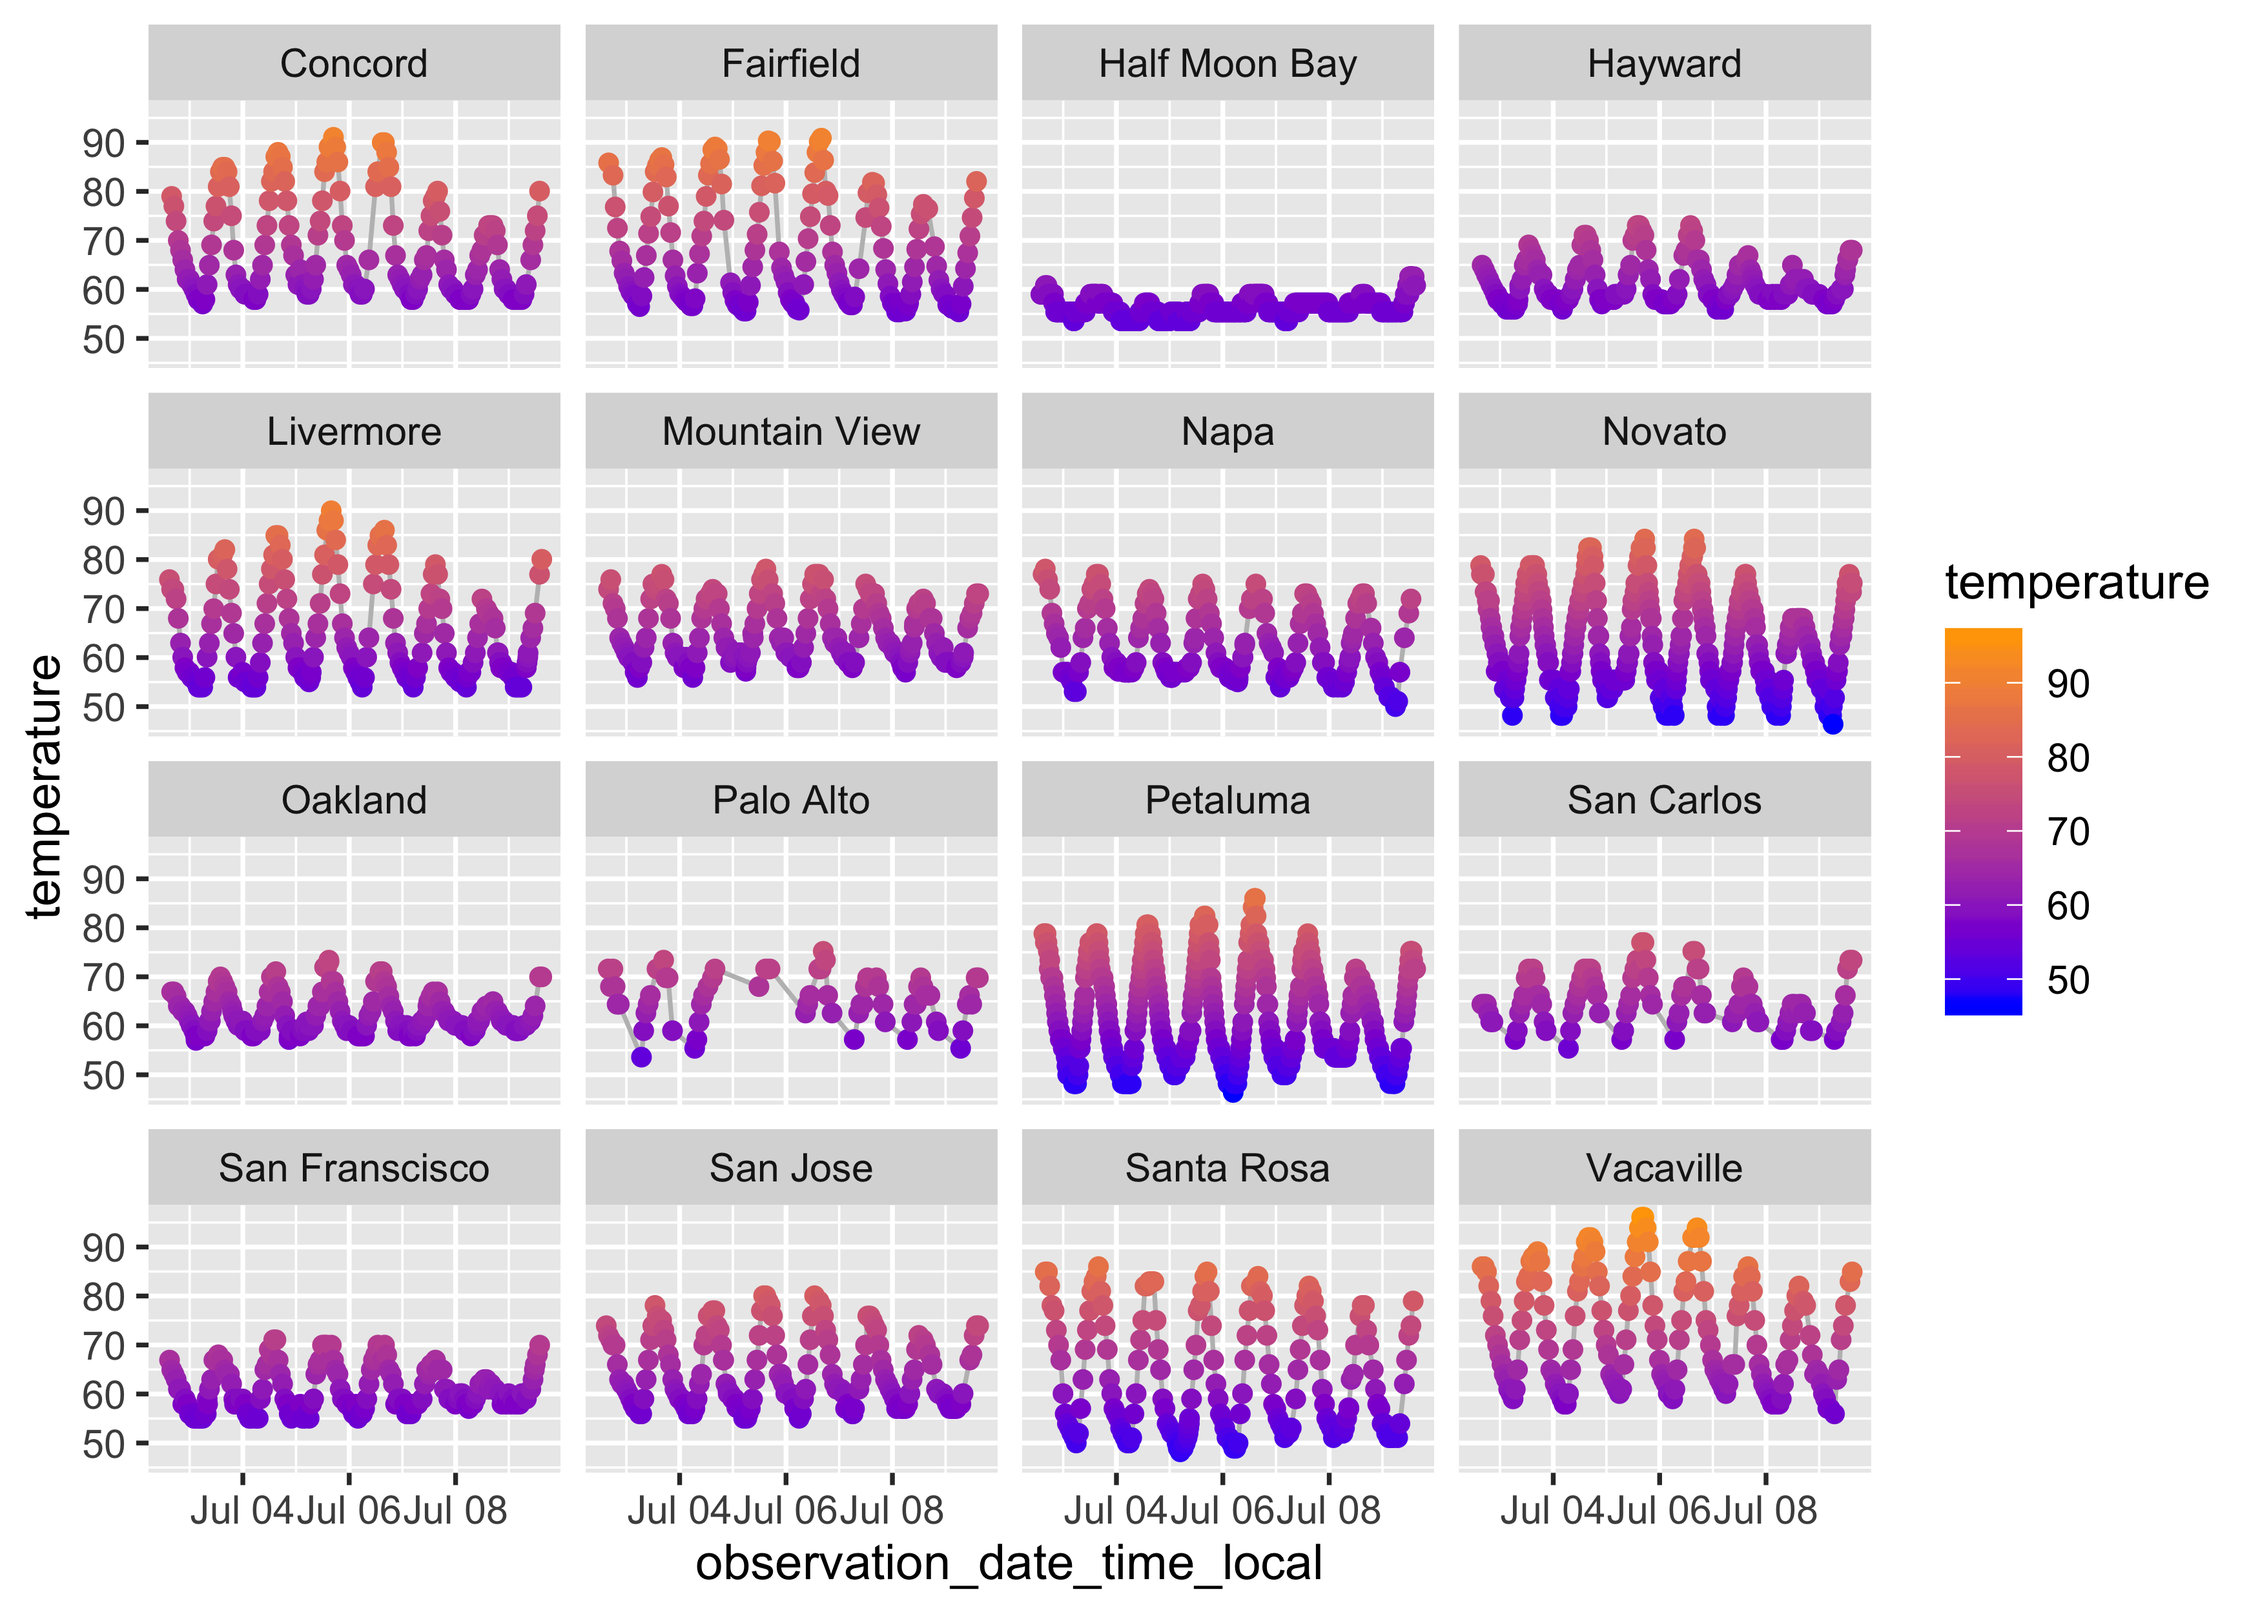
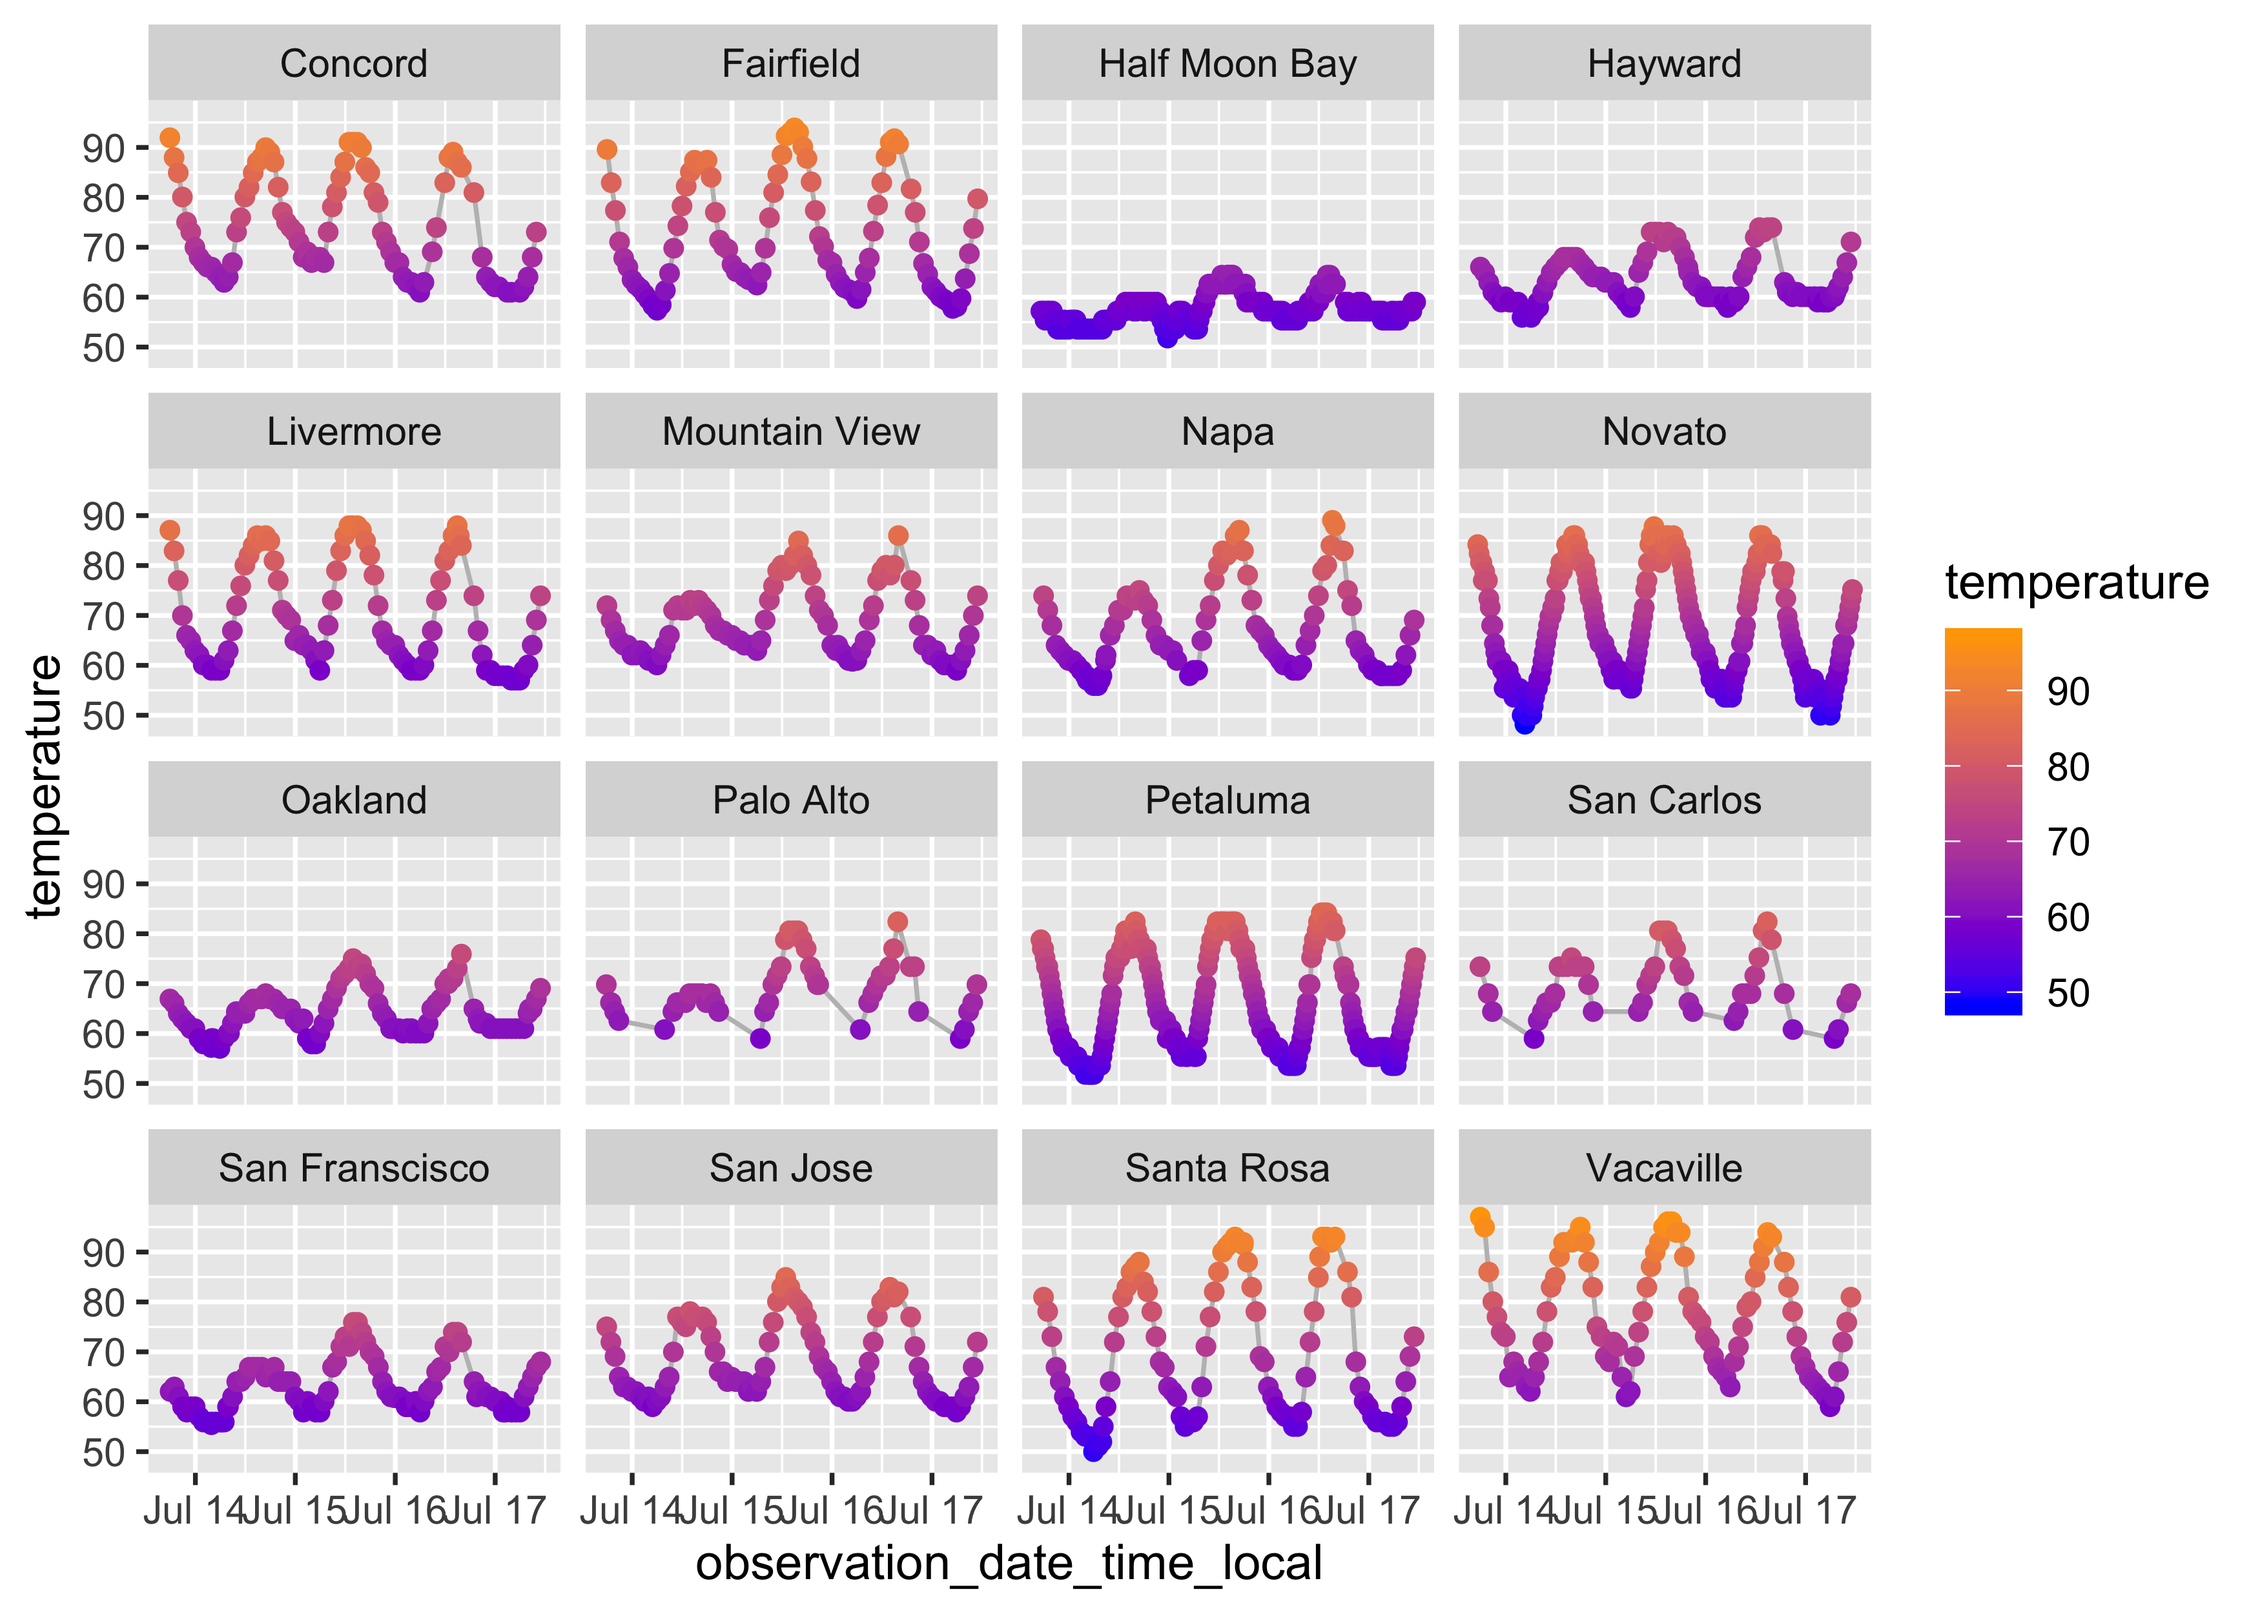
some changes before RLadies presentation

diff --git a/r/reticulate_walkthrough/using_reticulate_for_web_scraping.md b/r/reticulate_walkthrough/using_reticulate_for_web_scraping.md
@@ -1,7 +1,20 @@
-Using Python from within R
-================
+-   [Context](#context)
+-   [Using reticulate](#using-reticulate)
+    -   [Virtual Environments and Python /
+        reticulate](#virtual-environments-and-python-reticulate)
+    -   [Using pure Python within
+        RStudio](#using-pure-python-within-rstudio)
+    -   [Installing Python packages](#installing-python-packages)
+    -   [Importing Python packages](#importing-python-packages)
+-   [Applied Example: scraping weather.gov
+    data](#applied-example-scraping-weather.gov-data)
+    -   [Context](#context-1)
+    -   [The Weather.gov API](#the-weather.gov-api)
+    -   [Goals of the Exercise](#goals-of-the-exercise)
+    -   [Visualizing results](#visualizing-results)
 
-## Context
+Context
+-------
 
 R & Python are two of the most popular languages used in analytics. Each
 have their unique advantages, and it’s now easier than ever before to
@@ -18,20 +31,21 @@ From RStudio:
 > > The **reticulate** package provides a comprehensive set of tools for
 > > interoperability between Python and R. The package includes
 > > facilities for:
-> > 
-> >   - Calling Python from R in a variety of ways including R Markdown,
+> >
+> > -   Calling Python from R in a variety of ways including R Markdown,
 > >     sourcing Python scripts, importing Python modules, and using
 > >     Python interactively within an R session.
-> > 
-> >   - Translation between R and Python objects (for example, between R
+> >
+> > -   Translation between R and Python objects (for example, between R
 > >     and Pandas data frames, or between R matrices and NumPy arrays).
-> > 
-> >   - Flexible binding to different versions of Python including
+> >
+> > -   Flexible binding to different versions of Python including
 > >     virtual environments and Conda environments.
+> >
+------------------------------------------------------------------------
 
------
-
-## Using reticulate
+Using reticulate
+----------------
 
 Let’s start by loading the R libraries we’ll use for our analysis.
 
@@ -47,9 +61,9 @@ library(lubridate) ## loading this for help with date operations
 Before we get into an applied example, here’s some general housekeeping
 and helpful info for using `reticulate`:
 
-  - Reticulate allows for the use & creation of virtual environments for
+-   Reticulate allows for the use & creation of virtual environments for
     Python.  
-  - Virtual environments allow you to define an isolated version of
+-   Virtual environments allow you to define an isolated version of
     Python that operates completely separate from the main version of
     Python installed on your computer.
 
@@ -72,9 +86,31 @@ When using `reticulate`, however, the call is slightly different. Note
 that I’m using Python 3 in this notebook.
 
 ``` r
-virtualenv_create("r_py3_venv", python = "/usr/local/bin/python3")
+virtualenv_create("r_py3_venv", 
+                  python = "/usr/local/bin/python3")
 #> virtualenv: r_py3_venv
 use_virtualenv("r_py3_venv")
+```
+
+### Using pure Python within RStudio
+
+reticulate also offers some options for using *pure* Python (i.e. not
+inclusive of R syntax or operators) as part of the package.
+
+Here’s an example where we can let `knitr` run a Python chunk using
+\`\`\``{python}` as the first link of the chunk.
+
+``` python
+print('hello')
+#> hello
+```
+
+You can also pass a raw string of Python code to the `py_eval` function
+in Reticulate.
+
+``` r
+py_eval("print('hello')")
+#> NULL
 ```
 
 ### Installing Python packages
@@ -85,7 +121,7 @@ packages.
 For reference, here’s how you’d generally install Python packages
 *outside* of reticulate using the command line and the `pip` package
 manager (`conda` is also a popular Python package and environment
-manager).
+manager, and reticulate has functionality here as well).
 
 ``` bash
 pip install pandas
@@ -97,7 +133,10 @@ virtual environment you want to use and include an R list of the Python
 packages you’d like to install to the envioronment.
 
 ``` r
-py_install(c("pandas","requests") envname = "r_py3_venv")
+py_install(c("pandas",
+             "requests",
+             "pandas.io"), 
+           envname = "r_py3_venv")
 ```
 
 Note: if you don’t specify a virtual environment, reticulate will
@@ -116,8 +155,7 @@ import requests
 import pandas.io.json
 ```
 
-Now here’s the reticulate equivalent. Note that you cannot import
-specific components of a Python library here - it’s all or nothing.
+Now here’s the reticulate equivalent.
 
 ``` r
 pandas = import('pandas')
@@ -133,19 +171,20 @@ Here’s an example with `pandas.pivot()`:
 
 ``` r
 pandas$pivot
-#> <function pivot at 0x1240e8378>
-requests$get
-#> <function get at 0x12467b0d0>
+#> <function pivot at 0x11afaf8c8>
 ```
 
-## Applied Example: scraping weather.gov data
+Applied Example: scraping weather.gov data
+------------------------------------------
 
 ### Context
 
-I’m from Akron, Ohio where the weather is usually cloudy and it’s cold
-for at least 6 months out of the year. Northern California is great;
-I’ve really been fascinated by the climates of each San Francisco
-neighborhood and nearby cities.
+I’m from Akron, Ohio where [the weather is usually cloudy and it’s cold
+for at least 6 months out of the
+year](https://www.usclimatedata.com/climate/akron/ohio/united-states/usoh0008).
+Living in Northern California is great (for many reasons, but weather is
+certainly a big one!); I’ve really been fascinated by the climates of
+each San Francisco neighborhood and nearby cities.
 
 The National Weather Service (NWS) has a [web
 API](https://www.weather.gov/documentation/services-web-api) that can be
@@ -154,7 +193,7 @@ across the US. To explore the Bay Area’s various climates, I decided
 it’d be fun to pull temperature observations for a list of nearby
 weather stations.
 
-To speed up the tutorial here for a moment - I’m starting with a
+To speed up the tutorial here for a moment - I’m going to start with a
 pre-built list of area weather stations.
 
 ``` r
@@ -314,8 +353,7 @@ temperature_data = data.frame(NULL)
 
 Here’s where I invoke Python’s `requests` and `pandas` libraries to help
 with fetching & wrangling data from the API. Have a look at the code for
-an explanation of each
-step.
+an explanation of each step.
 
 ``` r
 ## for every row `i` in my dataframe of stations, I want to do the following
@@ -361,7 +399,7 @@ local time.
 ``` r
 temperature_data = 
   temperature_data %>% 
-  filter(date>=as.Date('2019-06-01')) %>% 
+  filter(as.Date(date)>=as.Date(today()-days(3))) %>% 
   mutate(observation_date_time_local=as_datetime(date,tz='America/Los_Angeles'))
 ```
 
@@ -369,8 +407,8 @@ temperature_data =
 
 Now that we have recent data from all weather stations, converted
 temperatures from Celsius to Farenheit, and converted timezones…let’s
-visualize and see what we learn\! Here’s a plot created with ggplot2
-that shows the fluctuation of temperatures at each of these stations’
+visualize and see what we learn! Here’s a plot created with ggplot2 that
+shows the fluctuation of temperatures at each of these stations’
 observations from the past few days.
 
 ``` r
